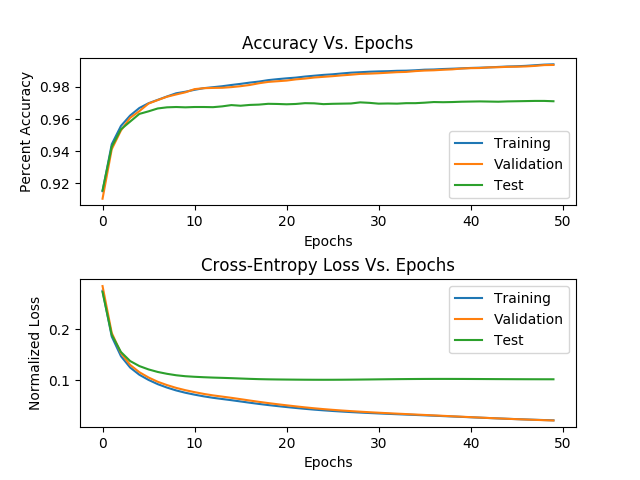
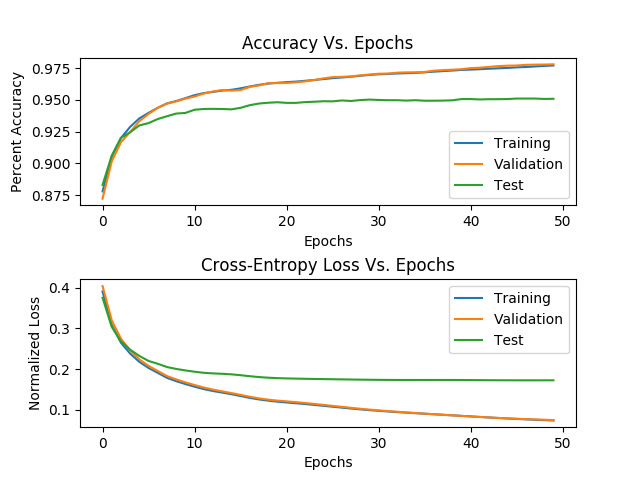
debugging tanh experiment, pushing for christian to drive.

diff --git a/multi_layer_preceptron.py b/multi_layer_preceptron.py
@@ -16,14 +16,23 @@ class MLP(object):
         self.output_units = output_units
         self.dims = 785
         self.num_layers = hidden_layers + 1
+        self.train_stats = None
 
         self.losses = {'train_loss': [], 'valid_loss': [], 'test_loss': []}
         self.accuracies = {'train_acc': [],'valid_acc': [],'test_acc': []}
 
         if hidden_layers == 1:
             self.weights = [
-                np.random.normal(loc=0, scale=1/np.sqrt(self.input_units),  size=(self.input_units, self.hidden_units-1)),
-                np.random.normal(loc=0, scale=1/np.sqrt(self.hidden_units), size=(self.hidden_units, self.output_units))
+                # Experiment 3E, 4A
+                # np.random.uniform(low=-1.0, high=1.0, size=(self.input_units, self.hidden_units-1)),
+                # np.random.uniform(low=-1.0, high=1.0, size=(self.hidden_units, self.output_units))
+
+                # Experiment 4B
+                np.random.uniform(low=-5.0, high=5.0, size=(self.input_units, self.hidden_units - 1)),
+                np.random.uniform(low=-5.0, high=5.0, size=(self.hidden_units, self.output_units))
+
+                # np.random.normal(loc=0, scale=1/np.sqrt(self.input_units),  size=(self.input_units, self.hidden_units-1)),
+                # np.random.normal(loc=0, scale=1/np.sqrt(self.hidden_units), size=(self.hidden_units, self.output_units))
             ]
         elif hidden_layers == 2:
             self.weights = [
@@ -184,33 +193,49 @@ class MLP(object):
     def train_hidden1(self, max_epochs=100, learning_rate_init=0.0001, annealing=100, batch_size=None, shuffle=False, gradient_checking=False):
         assert (self.hidden_layers == 1)
 
-        # Mini-batching
-        batches = []
-        num_samples = self.xTrain.shape[0]
-
-        if shuffle:
-            indices = np.random.permutation(num_samples)
-        else:
-            indices = np.arange(num_samples)
-
-        if batch_size == None:
-            batch_size = num_samples
-
-        for batch_num in range(num_samples // batch_size):
-            indxs = indices[batch_num * batch_size:(batch_num + 1) * batch_size]
-            batches.append((self.xTrain[indxs], self.yTrain[indxs]))
-
-        W_hidden1 = self.weights[0]
-        W_output = self.weights[1]
-
         # Start a Timer for Training
         strt = time()
         print("Training...")
+
+        # # Mini-batching
+        # batches = []
+        # num_samples = self.xTrain.shape[0]
+        #
+        # if shuffle:
+        #     indices = np.random.permutation(num_samples)
+        # else:
+        #     indices = np.arange(num_samples)
+        #
+        # if batch_size == None:
+        #     batch_size = num_samples
+        #
+        # for batch_num in range(num_samples // batch_size):
+        #     indxs = indices[batch_num * batch_size:(batch_num + 1) * batch_size]
+        #     batches.append((self.xTrain[indxs], self.yTrain[indxs]))
+
+        W_hidden1 = self.weights[0]
+        W_output = self.weights[1]
 
         # Iterate
         for epoch in range(max_epochs):
             # Decay Learning Rate
             alpha = learning_rate_init / (1 + epoch / annealing)
+
+            # Mini-batching
+            batches = []
+            num_samples = self.xTrain.shape[0]
+
+            if shuffle:
+                indices = np.random.permutation(num_samples)
+            else:
+                indices = np.arange(num_samples)
+
+            if batch_size == None:
+                batch_size = num_samples
+
+            for batch_num in range(num_samples // batch_size):
+                indxs = indices[batch_num * batch_size:(batch_num + 1) * batch_size]
+                batches.append((self.xTrain[indxs], self.yTrain[indxs]))
 
             # Iterate Over Mini-Batches
             for x_batch, t_batch in batches:
@@ -223,12 +248,14 @@ class MLP(object):
                 net_input_o = np.dot(hidden_layer_out1, W_output)
                 y = utilities.softmax_activation(net_input_o)
 
-                # Back Prop (deltas)
+                # Backprop (deltas)
                 delta_output = (t_batch - y)
                 if self.hidden_activation == utilities.sigmoid_activation:
                     delta_hidden1 = utilities.sigmoid_activation(net_input_h1) * (1 - utilities.sigmoid_activation(net_input_h1)) * np.dot(delta_output, W_output[1:,:].T)
                 elif self.hidden_activation == utilities.tanh_activation:
-                    delta_hidden1 = (2/3) * (1 - np.power(utilities.tanh_activation(net_input_h1), 2)) * np.dot(delta_output, W_output[1:,:].T)
+                    # delta_hidden1 = (2/3) * (1.7159 - 1.0/1.7159*np.power(utilities.tanh_activation(net_input_h1), 2)) * np.dot(delta_output, W_output[1:,:].T)
+                    delta_hidden1 = ((-2/3) * (1.7159) * (1 - np.power(np.tanh((2/3) * net_input_h1), 2)) + 3.75)*  np.dot(delta_output, W_output[1:,:].T)
+
                 else:
                     raise Exception("ERROR: Not supported hidden activation function!")
 
@@ -264,8 +291,6 @@ class MLP(object):
                 # Store the Model
                 self.weights[0] = W_hidden1
                 self.weights[1] = W_output
-                # self.weights[0] = (self.weights[0] - W_hidden1)/128
-                # self.weights[1] = (self.weights[1] - W_output)/128
 
             # Get model predictions
             predictions_train = self.get_model_predictions(self.xTrain)
@@ -276,6 +301,10 @@ class MLP(object):
             self.accuracies['train_acc'].append(utilities.accuracy(self.yTrain, predictions_train))
             self.accuracies['valid_acc'].append(utilities.accuracy(self.yValid, predictions_valid))
             self.accuracies['test_acc'].append(utilities.accuracy(self.yTest, predictions_test))
+
+            # Code Profiling
+            if not self.train_stats and self.accuracies['valid_acc'][-1] >= 0.97:
+                self.train_stats = (time() - strt, epoch)
 
             # Cross-Entropy Loss over epochs
             self.losses['train_loss'].append(utilities.cross_entropy_loss(self.yTrain, predictions_train))

diff --git a/main.py b/main.py
@@ -1,11 +1,4 @@
-import numpy as np
-import matplotlib.pyplot as plt
-import math
-from pprint import pprint
-import utilities
 from multi_layer_preceptron import *
-from time import time
-import sys
 
 
 def main():
@@ -17,8 +10,14 @@ def main():
     mlp.set_mlp_data(data)
 
     # Train the Model on the Training Set
-    num_epochs = 10
-    mlp.train(max_epochs=num_epochs, learning_rate_init=0.007, annealing=num_epochs * .90, batch_size=128, shuffle=True)
+    num_epochs = 15
+    mlp.train(max_epochs=num_epochs, learning_rate_init=0.0001, annealing=num_epochs * 10.7, batch_size=128, shuffle=True)
+
+    msg = "++++++++++++++++++++++++++++++++++++++++"
+    try:
+        print(msg, "\nExperiment Stats: Time to train(", round(mlp.train_stats[0],4), ' secs) Epochs to train (', mlp.train_stats[1], ')\n', msg)
+    except TypeError:
+        print(msg, "\nTarget validation accuracy of 0.97 was never reached.\n", msg)
 
     # Display Accuracy and Loss over Epochs to Show Convergence of Model
     mlp.train_diagnostics('delete') # Problem (3E)
